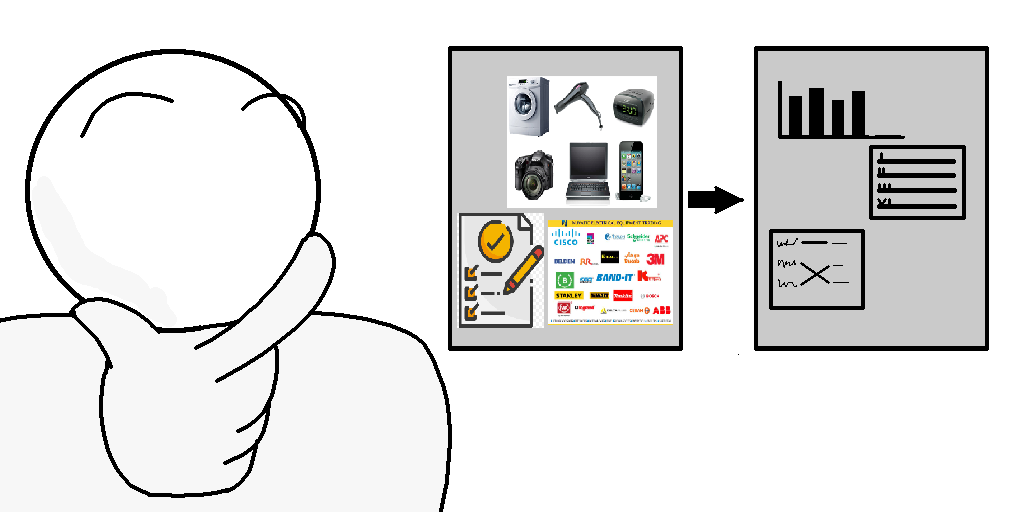
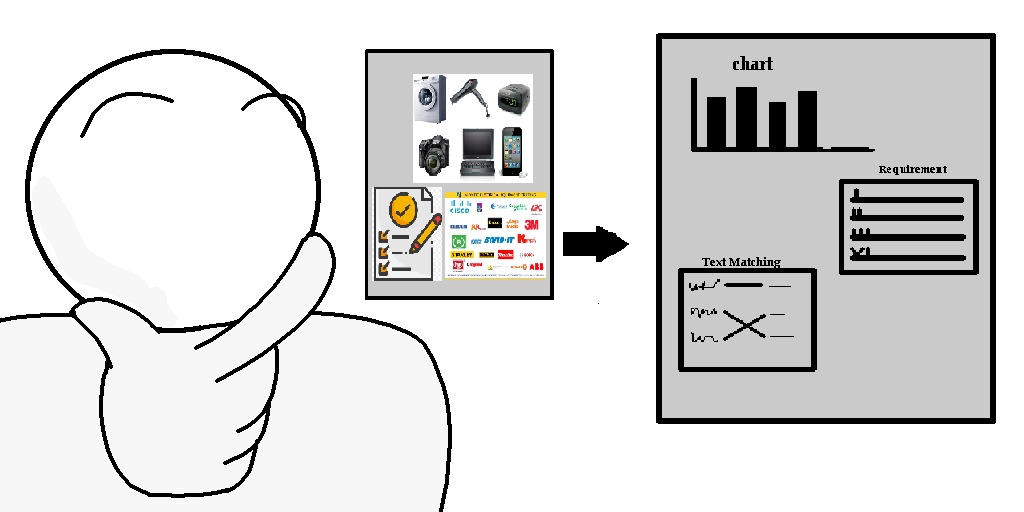
update in detailpage and mainpage
add some information image and text in mainpage not that good but meh
and implement condition where it will display chart if the data
have the review

Changed region(s): [[0.3438, 0.0625, 1.0, 0.8438]]

diff --git a/frontend/src/views/content/ProductDetailView.vue b/frontend/src/views/content/ProductDetailView.vue
@@ -6,18 +6,16 @@
     <div>{{ event.title }}</div>
     <div>{{ event.price }}</div>
 
-    <div class="chart-containera">
+    <div class="chart-containera" v-if="check_reviewscore != false">
       Opinion Chart
-
-      <chart />
-
-  
+      <chart :chartData="chartData" :chartOptions="chartOptions" />
     </div>
+    <div v-else>Chart of Review score is not available</div>
 
 
   </div>
   <div v-else>
-    <p>Loading...</p>
+    <p>inner data not found</p>
   </div>
 
     
@@ -29,10 +27,16 @@ import { inject } from 'vue';
 import chart from '@/components/chartfromvuechart.vue';
 
 export default {
-  props: ['id'],
+
   data() {
     return {
-      parsedChartData: null
+      event: null,
+      chartData: null,
+      check_reviewscore:false,
+      chartOptions: {
+        responsive: true,
+        maintainAspectRatio: true,
+      }
     };
   },
   setup() {
@@ -43,8 +47,8 @@ export default {
     chart
   },
   computed: {
-    event() {
-      return this.GStore.event;
+    id() {
+      return this.$route.params.id;
     }
   },
   created() {
@@ -53,19 +57,39 @@ export default {
   },
   methods: {
     fetchEventData() {
-      // Fetch event data and set this.event
-      // Example:
-      // this.event = { title: 'Sample Product', price: '$123.45' };
-
-      // Parse the price data for the chart
-      if (this.event && this.event.price) {
-        this.parsedChartData = this.parsePriceData(this.event.price);
+      // Fetch event data from GStore or an API
+      const event = this.GStore.events.find(event => event.id === this.id);
+      if (event) {
+        this.event = event;
+        if(event.review_rating){
+          this.check_reviewscore = true
+          this.chartData = this.parseOpinionData(event.review_rating);
+        }
+        else{
+          this.check_reviewscore = false
+        }
+        
+      } else {
+        // Handle the case where the event is not found
+        console.error("Event not found");
       }
     },
-    parsePriceData(price) {
+    parseOpinionData(opinion) {
       // Assuming price is a string like "$123.45"
       // Remove the $ symbol and convert to a number
-      return parseFloat(price.replace('$', ''));
+      const parsedOpinion = parseFloat(opinion);
+      return {
+        labels: ['Opinion'], // You can customize the labels as needed
+        datasets: [
+          {
+            label: '',
+            data: [parsedOpinion],
+            backgroundColor: 'rgba(75, 192, 192, 0.2)',
+            borderColor: 'rgba(75, 192, 192, 1)',
+            borderWidth: 1
+          }
+        ]
+      };
     }
   }
 };

diff --git a/frontend/src/views/MainpageView.vue b/frontend/src/views/MainpageView.vue
@@ -54,7 +54,7 @@
                                                 
                                                 />
                                                 with our project we will help you decide by provide an information 
-                                                and option to filter product that meet your demand
+                                                and option to filter product that meet your requirement 
                                           </div>
                                     </div>
 
